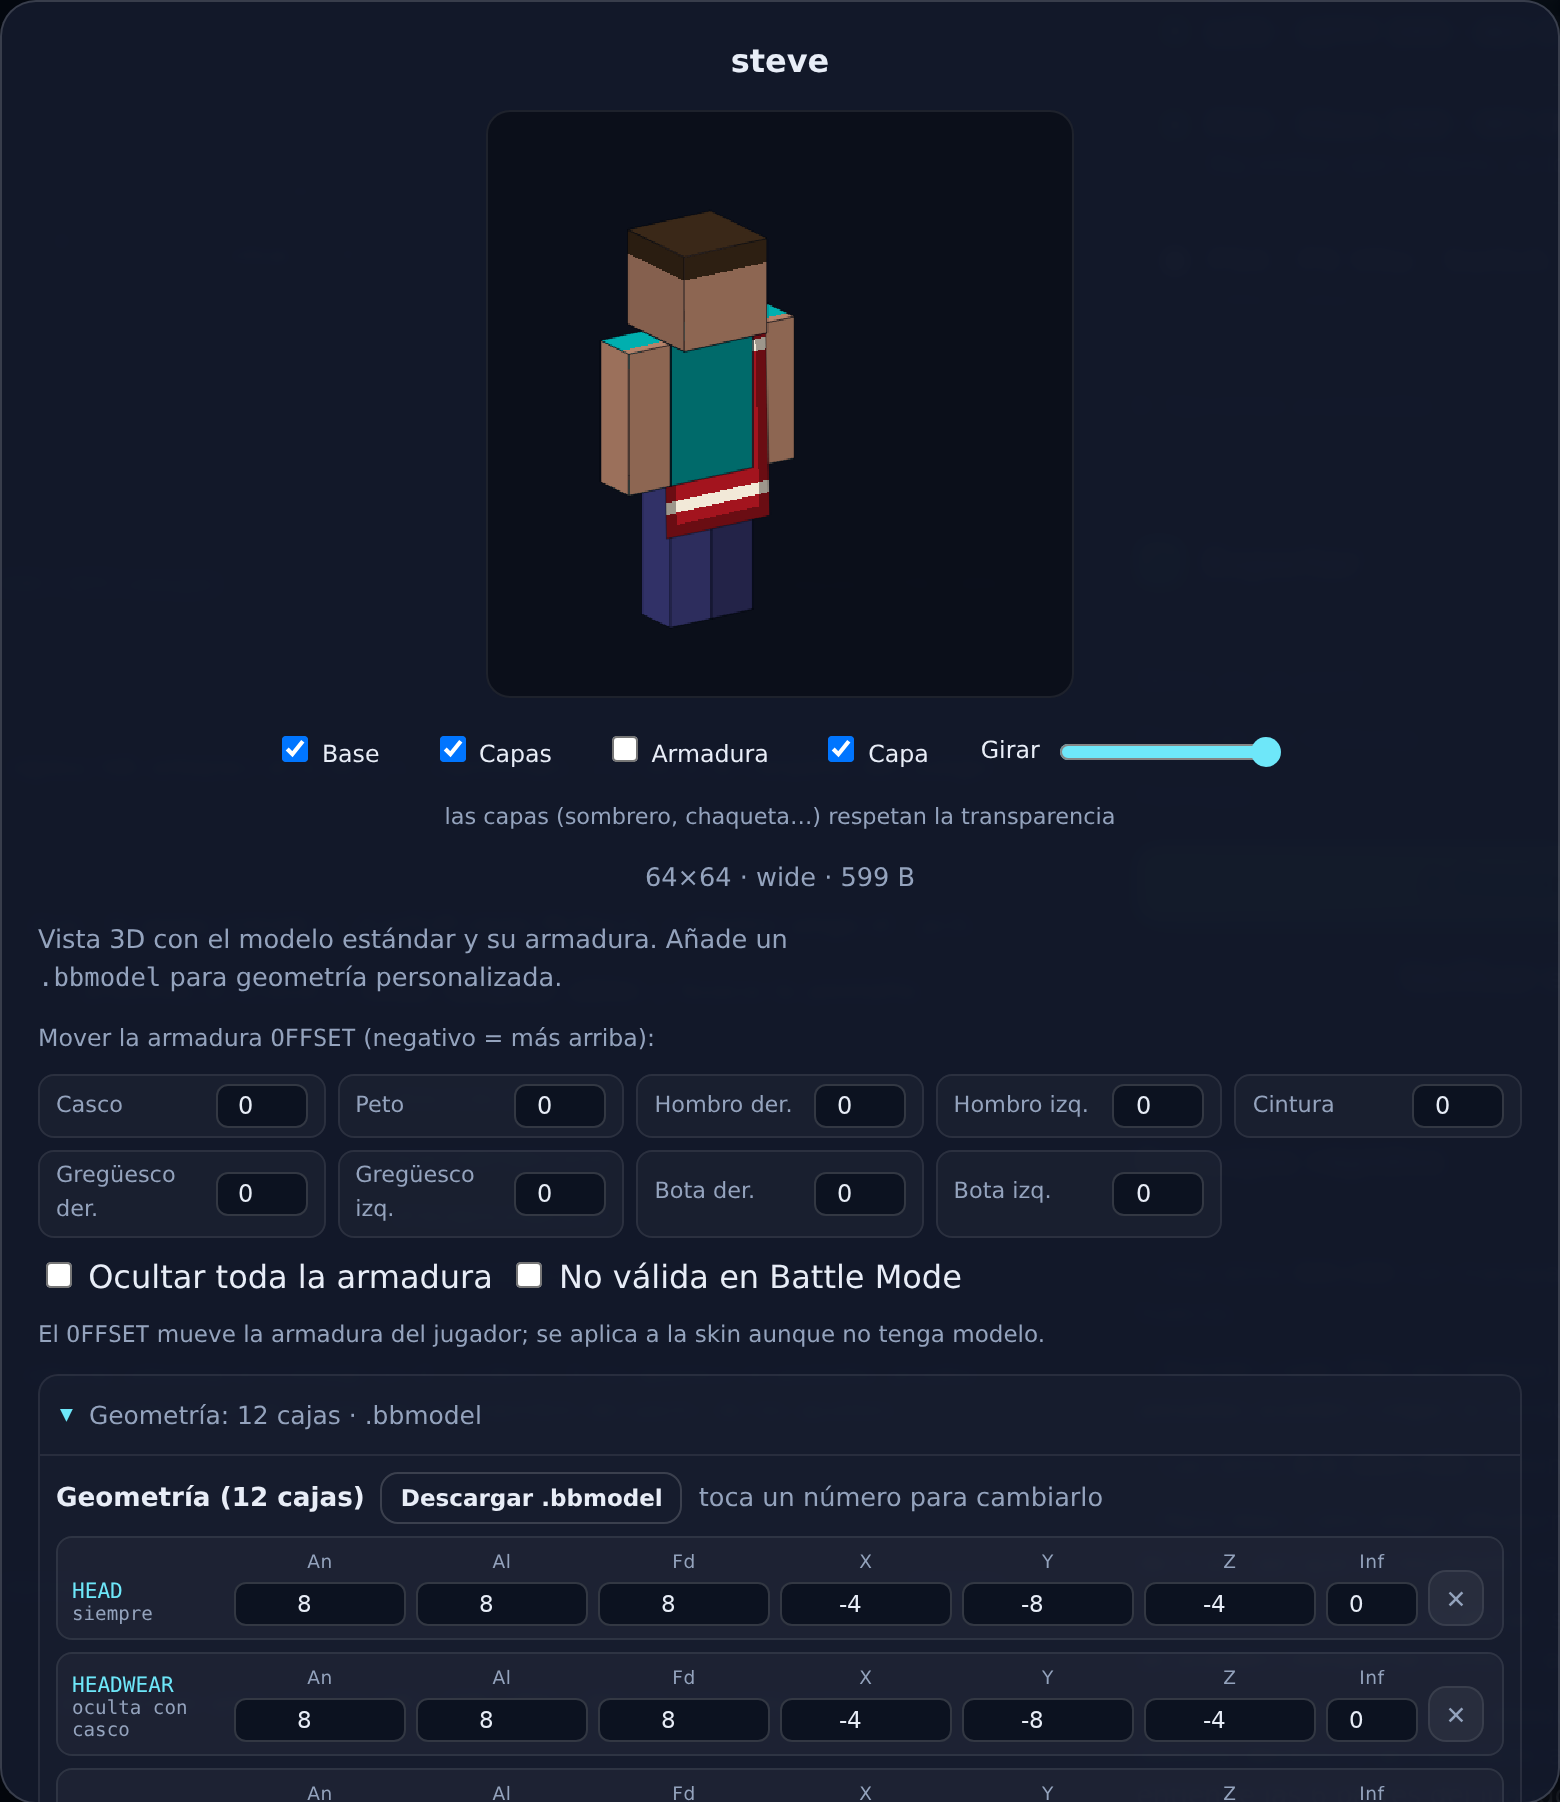
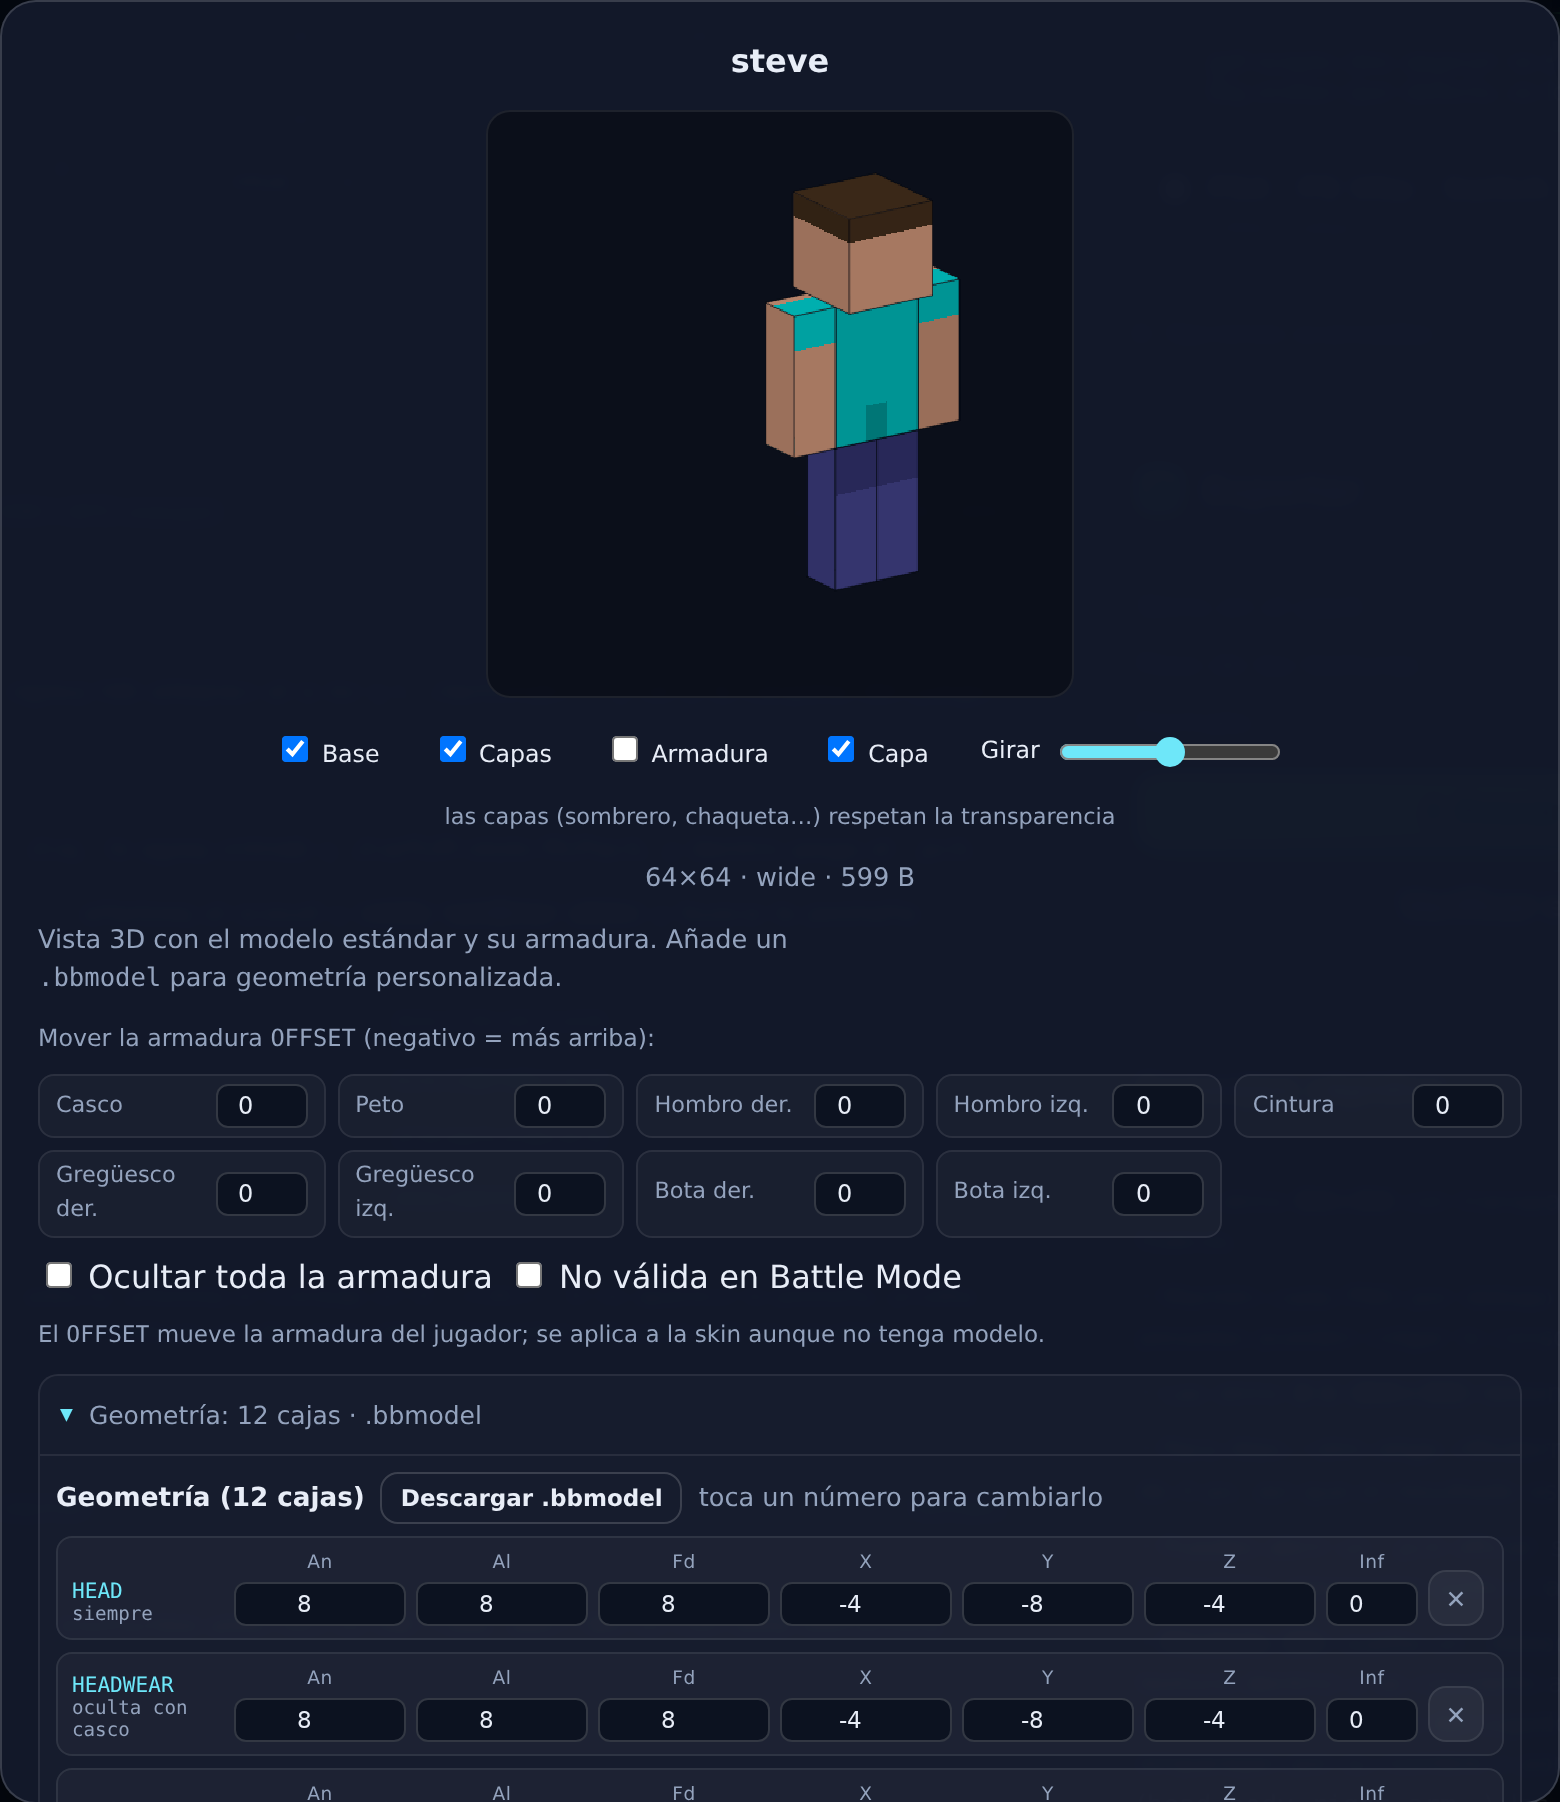
Capa en 3D: dibujo como tela aparte (orden correcto al girar) y capturas de documentación

Changed region(s): [[0.3692, 0.0932, 0.6154, 0.3729], [0.7385, 0.404, 0.8308, 0.4351]]

diff --git a/index.html b/index.html
@@ -4421,7 +4421,7 @@ body.busy .dropzone { opacity: 0.7; }
       ];
 
       /** pinta un trozo de textura deformado sobre un cuadrilátero en pantalla */
-      const pintarCara = (pts, sx, sy, sw, sh, shade) => {
+      const pintarCara = (pts, sx, sy, sw, sh, shade, fuente) => {
         if (sw <= 0 || sh <= 0 || !pixels) return false;
         const p0 = pts[0], p1 = pts[1], p3 = pts[3];
         ctx.save();
@@ -4431,7 +4431,7 @@ body.busy .dropzone { opacity: 0.7; }
         ctx.clip();
         ctx.transform((p1.x - p0.x) / sw, (p1.y - p0.y) / sw, (p3.x - p0.x) / sh, (p3.y - p0.y) / sh, p0.x, p0.y);
         ctx.imageSmoothingEnabled = false;
-        ctx.drawImage(img, sx, sy, Math.max(0.01, sw), Math.max(0.01, sh), 0, 0, sw, sh);
+        ctx.drawImage(fuente || img, sx, sy, Math.max(0.01, sw), Math.max(0.01, sh), 0, 0, sw, sh);
         if (shade < 1) {
           ctx.fillStyle = 'rgba(0,0,0,' + (1 - shade).toFixed(2) + ')';
           ctx.fillRect(0, 0, sw, sh);
@@ -4452,20 +4452,17 @@ body.busy .dropzone { opacity: 0.7; }
       const faces = [];
 
       // --- capa de la espalda (cape): un plano detrás del cuerpo ---
+      let capaCerca = false;
       if (opts.capa && skin.cape) {
-        const cy = 24, anchoCapa = 10, altoCapa = 16, zCapa = 2.35;
-        const cuadro = [
-          [-anchoCapa / 2, cy, zCapa],
-          [anchoCapa / 2, cy, zCapa],
-          [anchoCapa / 2, cy - altoCapa, zCapa + 0.6],
-          [-anchoCapa / 2, cy - altoCapa, zCapa + 0.6]
-        ].map((q) => project(q[0], q[1], q[2]));
-        faces.push({
-          cape: true,
-          pts: cuadro,
-          depth: cuadro.reduce((a, q) => a + q.depth, 0) / 4 - 0.5,
-          stroke: 'rgba(6,10,18,0.45)'
-        });
+        const ANCHO = 10, ALTO = 16, Y0 = 24, Z0 = 2.35, INCLINA = 0.6;
+        const zDe = (y) => Z0 + (Y0 - y) * (INCLINA / ALTO);
+        const pts = [
+          project(-ANCHO / 2, Y0, zDe(Y0)), project(ANCHO / 2, Y0, zDe(Y0)),
+          project(ANCHO / 2, Y0 - ALTO, zDe(Y0 - ALTO)), project(-ANCHO / 2, Y0 - ALTO, zDe(Y0 - ALTO))
+        ];
+        // ¿la espalda mira a la cámara? entonces la capa se pinta encima de todo
+        capaCerca = project(0, 16, Z0).depth > project(0, 16, -2).depth;
+        faces.push({ cape: true, pts: pts, tex: [12, 1, 10, 16], depth: 0, stroke: 'rgba(6,10,18,0.35)' });
       }
 
       // --- skin: base y capas por separado ---
@@ -4533,6 +4530,12 @@ body.busy .dropzone { opacity: 0.7; }
       });
 
       faces.sort((a, b) => a.depth - b.depth);
+      if (faces.some((f) => f.cape)) {
+        const tela = faces.filter((f) => f.cape);
+        const resto = faces.filter((f) => !f.cape);
+        faces.length = 0;
+        (capaCerca ? resto.concat(tela) : tela.concat(resto)).forEach((f) => faces.push(f));
+      }
       faces.forEach((f) => {
         if (f.solid) {
           ctx.beginPath();
@@ -4544,20 +4547,15 @@ body.busy .dropzone { opacity: 0.7; }
           return;
         }
         if (f.cape) {
-          const p0 = f.pts[0], p1 = f.pts[1], p3 = f.pts[3];
-          ctx.save();
-          ctx.beginPath();
-          f.pts.forEach((q, i) => (i ? ctx.lineTo(q.x, q.y) : ctx.moveTo(q.x, q.y)));
-          ctx.closePath();
-          ctx.clip();
-          ctx.imageSmoothingEnabled = false;
-          ctx.transform((p1.x - p0.x) / 10, (p1.y - p0.y) / 10, (p3.x - p0.x) / 16, (p3.y - p0.y) / 16, p0.x, p0.y);
-          // cara trasera de la capa (12,1 · 10×16) que es la que se ve por fuera
-          ctx.drawImage(skin.cape.canvas, 12, 1, 10, 16, 0, 0, 10, 16);
-          ctx.restore();
-          ctx.strokeStyle = f.stroke;
-          ctx.lineWidth = 1;
-          ctx.stroke();
+          pintarCara(f.pts, f.tex[0], f.tex[1], f.tex[2], f.tex[3], 0.92, skin.cape.canvas);   // 0.92 = un pelín de sombra, como la espalda
+          if (f.stroke) {
+            ctx.beginPath();
+            f.pts.forEach((q, i) => (i ? ctx.lineTo(q.x, q.y) : ctx.moveTo(q.x, q.y)));
+            ctx.closePath();
+            ctx.strokeStyle = f.stroke;
+            ctx.lineWidth = 1;
+            ctx.stroke();
+          }
           return;
         }
         if (!pintarCara(f.pts, f.tex[0], f.tex[1], f.tex[2], f.tex[3], f.shade)) return;

diff --git a/src/app.js b/src/app.js
@@ -2459,7 +2459,7 @@
       ];
 
       /** pinta un trozo de textura deformado sobre un cuadrilátero en pantalla */
-      const pintarCara = (pts, sx, sy, sw, sh, shade) => {
+      const pintarCara = (pts, sx, sy, sw, sh, shade, fuente) => {
         if (sw <= 0 || sh <= 0 || !pixels) return false;
         const p0 = pts[0], p1 = pts[1], p3 = pts[3];
         ctx.save();
@@ -2469,7 +2469,7 @@
         ctx.clip();
         ctx.transform((p1.x - p0.x) / sw, (p1.y - p0.y) / sw, (p3.x - p0.x) / sh, (p3.y - p0.y) / sh, p0.x, p0.y);
         ctx.imageSmoothingEnabled = false;
-        ctx.drawImage(img, sx, sy, Math.max(0.01, sw), Math.max(0.01, sh), 0, 0, sw, sh);
+        ctx.drawImage(fuente || img, sx, sy, Math.max(0.01, sw), Math.max(0.01, sh), 0, 0, sw, sh);
         if (shade < 1) {
           ctx.fillStyle = 'rgba(0,0,0,' + (1 - shade).toFixed(2) + ')';
           ctx.fillRect(0, 0, sw, sh);
@@ -2490,20 +2490,17 @@
       const faces = [];
 
       // --- capa de la espalda (cape): un plano detrás del cuerpo ---
+      let capaCerca = false;
       if (opts.capa && skin.cape) {
-        const cy = 24, anchoCapa = 10, altoCapa = 16, zCapa = 2.35;
-        const cuadro = [
-          [-anchoCapa / 2, cy, zCapa],
-          [anchoCapa / 2, cy, zCapa],
-          [anchoCapa / 2, cy - altoCapa, zCapa + 0.6],
-          [-anchoCapa / 2, cy - altoCapa, zCapa + 0.6]
-        ].map((q) => project(q[0], q[1], q[2]));
-        faces.push({
-          cape: true,
-          pts: cuadro,
-          depth: cuadro.reduce((a, q) => a + q.depth, 0) / 4 - 0.5,
-          stroke: 'rgba(6,10,18,0.45)'
-        });
+        const ANCHO = 10, ALTO = 16, Y0 = 24, Z0 = 2.35, INCLINA = 0.6;
+        const zDe = (y) => Z0 + (Y0 - y) * (INCLINA / ALTO);
+        const pts = [
+          project(-ANCHO / 2, Y0, zDe(Y0)), project(ANCHO / 2, Y0, zDe(Y0)),
+          project(ANCHO / 2, Y0 - ALTO, zDe(Y0 - ALTO)), project(-ANCHO / 2, Y0 - ALTO, zDe(Y0 - ALTO))
+        ];
+        // ¿la espalda mira a la cámara? entonces la capa se pinta encima de todo
+        capaCerca = project(0, 16, Z0).depth > project(0, 16, -2).depth;
+        faces.push({ cape: true, pts: pts, tex: [12, 1, 10, 16], depth: 0, stroke: 'rgba(6,10,18,0.35)' });
       }
 
       // --- skin: base y capas por separado ---
@@ -2571,6 +2568,12 @@
       });
 
       faces.sort((a, b) => a.depth - b.depth);
+      if (faces.some((f) => f.cape)) {
+        const tela = faces.filter((f) => f.cape);
+        const resto = faces.filter((f) => !f.cape);
+        faces.length = 0;
+        (capaCerca ? resto.concat(tela) : tela.concat(resto)).forEach((f) => faces.push(f));
+      }
       faces.forEach((f) => {
         if (f.solid) {
           ctx.beginPath();
@@ -2582,20 +2585,15 @@
           return;
         }
         if (f.cape) {
-          const p0 = f.pts[0], p1 = f.pts[1], p3 = f.pts[3];
-          ctx.save();
-          ctx.beginPath();
-          f.pts.forEach((q, i) => (i ? ctx.lineTo(q.x, q.y) : ctx.moveTo(q.x, q.y)));
-          ctx.closePath();
-          ctx.clip();
-          ctx.imageSmoothingEnabled = false;
-          ctx.transform((p1.x - p0.x) / 10, (p1.y - p0.y) / 10, (p3.x - p0.x) / 16, (p3.y - p0.y) / 16, p0.x, p0.y);
-          // cara trasera de la capa (12,1 · 10×16) que es la que se ve por fuera
-          ctx.drawImage(skin.cape.canvas, 12, 1, 10, 16, 0, 0, 10, 16);
-          ctx.restore();
-          ctx.strokeStyle = f.stroke;
-          ctx.lineWidth = 1;
-          ctx.stroke();
+          pintarCara(f.pts, f.tex[0], f.tex[1], f.tex[2], f.tex[3], 0.92, skin.cape.canvas);   // 0.92 = un pelín de sombra, como la espalda
+          if (f.stroke) {
+            ctx.beginPath();
+            f.pts.forEach((q, i) => (i ? ctx.lineTo(q.x, q.y) : ctx.moveTo(q.x, q.y)));
+            ctx.closePath();
+            ctx.strokeStyle = f.stroke;
+            ctx.lineWidth = 1;
+            ctx.stroke();
+          }
           return;
         }
         if (!pintarCara(f.pts, f.tex[0], f.tex[1], f.tex[2], f.tex[3], f.shade)) return;

diff --git a/README.md b/README.md
@@ -473,3 +473,10 @@ La ingeniería inversa del contenedor PCK está documentada por
 colaboradores, GPL-3.0). Esta página es una implementación independiente del mismo formato, sin código copiado.
 
 No está afiliada a Mojang, Microsoft ni 4J Studios. «Minecraft» es una marca de Mojang AB.
+
+### Trucos de la capa en la vista 3D
+
+- **Girar** mueve el muñeco de 0° a 360°: hacia el final del recorrido se ve la espalda y la capa entera.
+- La casilla **Capa** la oculta sin quitarla (útil para comparar).
+- La capa se dibuja como una tela aparte detrás del cuerpo, así que asoma un píxel por los lados aunque
+  mires de frente (igual que en el juego) y se pinta correctamente cuando la miras de espaldas.
